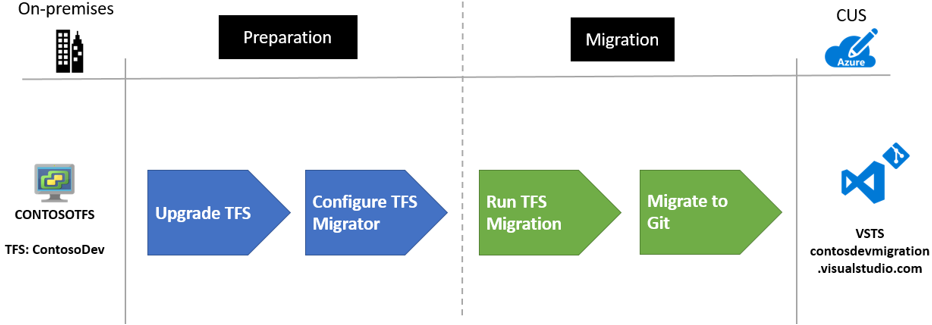
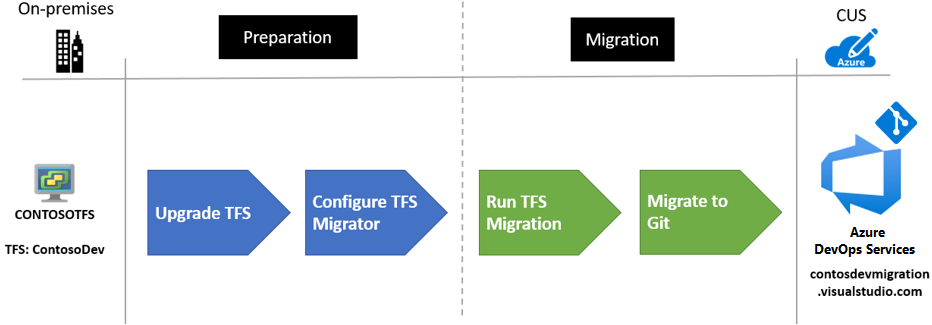
updates per GH issue 1208

Changed region(s): [[0.8712, 0.3077, 0.9957, 0.6769], [0.8712, 0.7077, 1.0, 0.9231]]

diff --git a/docs/migrate/azure-best-practices/contoso-migration-tfs-vsts.md b/docs/migrate/azure-best-practices/contoso-migration-tfs-vsts.md
@@ -12,6 +12,9 @@ ms.custom: internal
 
 # Refactor a Team Foundation Server deployment to Azure DevOps Services
 
+>[!NOTE]
+> With the release of Team Foundation Server (TFS) 2019, TFS was renamed to Azure DevOps Server. Most of this article will still refer to Team Foundation Server, for the sake of aligning with the actual product name of older versions of TFS and the intent of the article. For example, the Team Foundation Server migration tool, is now referred to as the Azure DevOps Server migration tool.
+
 This article shows how the fictional company Contoso refactors its on-premises Visual Studio Team Foundation Server deployment by migrating it to Azure DevOps Services in Azure. In this scenario, the Contoso development team has used Team Foundation Server for team collaboration and source control for the past five years. Now, the team wants to move to a cloud-based solution for developer and testing work, and for source control. Azure DevOps Services plays a key role as the Contoso team moves to an Azure DevOps Services model and develops new cloud-native applications.
 
 ## Business drivers
@@ -47,11 +50,16 @@ The Contoso cloud team has the following goals for its migration to Azure DevOps
 
 ## Migration process
 
-The migration process is as follows:
+The general migration process illustrated in this article is as follows:
 
 1. Upgrade the Team Foundation Server implementation to a supported level.
 
-   Contoso is currently running Team Foundation Server 2017 Update 3. However, to use database migration it needs to run a supported 2018 version with the latest updates.
+   Contoso is currently running Team Foundation Server 2017 Update 3. However, to use database migration it needs to run a supported version with the latest updates. Although it's no longer supported as an upgrade version, in this fictitious example the Contoso admin team upgrades to Team Foundation Server 2018 upgrade 3.
+   
+   >[!IMPORTANT]
+   > See [Migrate data from Azure DevOps Server to Azure DevOps Services](/azure/devops/migrate/migration-overview) for the list of versions of Azure DevOps Server (formerly known as Team Foundation Services) supported for migration. For upgrade assistance, see [Upgrade your deployment to the latest version of Azure DevOps Server](/azure/devops/server/upgrade/get-started), and be sure to select your version in the upper left Version dropdown. 
+   >
+   > For a complete discussion supported versions upgrading, refer to "Chapter 3: Upgrade" of the guide included in the migration tool, downloaded later in section "Step 3: Validate the Team Foundation Server collection".
 
 1. Run the Team Foundation Server migration tool and validate its collection.
 
@@ -67,7 +75,7 @@ The migration process is as follows:
 
 To run this scenario, Contoso must meet the following prerequisites:
 
-### Azure subscriptions
+#### Azure subscriptions
 
 Contoso set up its subscriptions as described in [Manage subscriptions](contoso-migration-infrastructure.md#manage-subscriptions):
 
@@ -76,13 +84,13 @@ Contoso set up its subscriptions as described in [Manage subscriptions](contoso-
 - If you use an existing subscription and you're not the admin, work with the admin to assign you Owner or Contributor permissions.
 - If you need more granular permissions, see [Manage Azure Site Recovery access with role-based access control](/azure/site-recovery/site-recovery-role-based-linked-access-control).
 
-### Azure infrastructure
+#### Azure infrastructure
 
 Contoso set up its Azure infrastructure as described in [Deploy a migration infrastructure](../azure-migration-guide/ready-alz.md).
 
-### On-premises Team Foundation Server instance
+#### On-premises Team Foundation Server instance
 
-The on-premises instance needs to either run Team Foundation Server 2018 upgrade 3 or be upgraded to it as part of this process.
+In this fictitiouis example, the on-premises instance needs to either run Team Foundation Server 2018 upgrade 3 or be upgraded to it as part of this process.
 
 ## Scenario steps
 
@@ -91,9 +99,10 @@ Here's how Contoso admins complete the migration:
 > [!div class="checklist"]
 >
 > - **Step 1: Create an Azure Storage account**. This storage account is used during the migration process.
-> - **Step 2: Upgrade Team Foundation Server**. Upgrade the deployment to Team Foundation Server 2018 upgrade 3.
+> - **Step 2: Upgrade Team Foundation Server**. Upgrade the deployment to a version of Azure DevOps Server that supports migration.
 > - **Step 3: Validate the Team Foundation Server collection**. Validate the Team Foundation Server collection in preparation for the migration.
 > - **Step 4: Build the migration files**. Create the migration files by using the Team Foundation Server migration tool.
+> - **Step 5: Migrate to Azure DevOps Services**. With the preparation complete, Contoso admins can focus on migration.
 
 ## Step 1: Create an Azure Storage account
 
@@ -111,15 +120,14 @@ Here's how Contoso admins complete the migration:
 
 ## Step 2: Upgrade Team Foundation Server
 
-Contoso admins upgrade the Team Foundation Server instance to Team Foundation Server 2018 Update 3.
+Upgrade the Team Foundation Server instance to a version of Azure DevOps Server that supports migration, using the following general steps. In all cases, be sure to select your version in the upper left Version dropdown:
 
-**Prerequisites:**
+1. Review [Upgrade your deployment to the latest version of Azure DevOps Server](/azure/devops/server/upgrade/get-started). 
+1. Refer to [Azure DevOps Server Downloads](/azure/devops/server/download/azuredevopsserver) for the latest downloads.
+1. Verify the [Requirements for Azure DevOps on-premises](/azure/devops/server/requirements). 
+2. Read the [release notes](/azure/devops/server/release-notes).
 
-- Download [Team Foundation Server 2018 Update 3](https://go.microsoft.com/fwlink/?LinkId=2008534).
-- Verify the [hardware requirements](/azure/devops/server/requirements).
-- Read the [release notes](/visualstudio/releasenotes/tfs2018-relnotes) and [upgrade notes](/azure/devops/server/upgrade/get-started).
-
-Contoso admins upgrade as follows:
+The following is an example of the steps the Contoso admins took to upgrade a server to Team Foundation Server 2018 Update 3:
 
 1. Back up the Team Foundation Server instance, which is running on a VMware virtual machine (VM), and take a VMware snapshot.
 
@@ -127,21 +135,21 @@ Contoso admins upgrade as follows:
 
     :::image type="content" source="./media/contoso-migration-tfs-vsts/upgrade1.png" alt-text="Screenshot of the Getting Started page for upgrading Team Foundation Server.":::
 
-1. Choose the installation location. The installer requires internet access.
+2. Choose the installation location. The installer requires internet access.
 
     :::image type="content" source="./media/contoso-migration-tfs-vsts/upgrade2.png" alt-text="Screenshot of the Team Foundation Server installation site in Visual Studio.":::
 
     After the installation finishes, the Server Configuration Wizard starts.
 
-1. On the **Welcome** page, select **Next** to continue.
+3. On the **Welcome** page, select **Next** to continue.
 
     :::image type="content" source="./media/contoso-migration-tfs-vsts/upgrade3.png" alt-text="Screenshot of the Team Foundation Server 2018 Update 2 configuration wizard.":::
 
-1. After you review and accept the Server Configuration Wizard settings, it completes the upgrade.
+4. After you review and accept the Server Configuration Wizard settings, it completes the upgrade.
 
      :::image type="content" source="./media/contoso-migration-tfs-vsts/upgrade4.png" alt-text="Screenshot of the Team Foundation Server configuration wizard upgrade progress pane.":::
 
-1. Verify the Team Foundation Server installation by reviewing the projects, work items, and code.
+5. Verify the Team Foundation Server installation by reviewing the projects, work items, and code.
 
      :::image type="content" source="./media/contoso-migration-tfs-vsts/upgrade5.png" alt-text="Screenshot of the **Product backlog** pane for verifying the Team Foundation Server installation.":::
 
@@ -156,7 +164,9 @@ Learn about [upgrading Team Foundation Server](/azure/devops/server/upgrade/get-
 
 Contoso admins run the Team Foundation Server migration tool against the `contosodev` collection database to validate it before migration:
 
-1. Download and unzip the [Team Foundation Server migration tool](https://www.microsoft.com/download/details.aspx?id=54274). Download the version for the Team Foundation Server update that's running. Select the version in the admin console.
+1. Download and unzip the [Team Foundation Server migration tool](https://www.microsoft.com/download/details.aspx?id=54274). The download page provides 3 .zip files containing the migration tool, for the 3 latest supported versions. Refer to the admin console to verify the version you're currently running.
+
+    Here's the version information and download selections used by the Contoso admins, at the time of their migration:
 
     :::image type="content" source="./media/contoso-migration-tfs-vsts/collection1.png" alt-text="Screenshot of the Team Foundation Server pane for verifying the product version.":::
 
